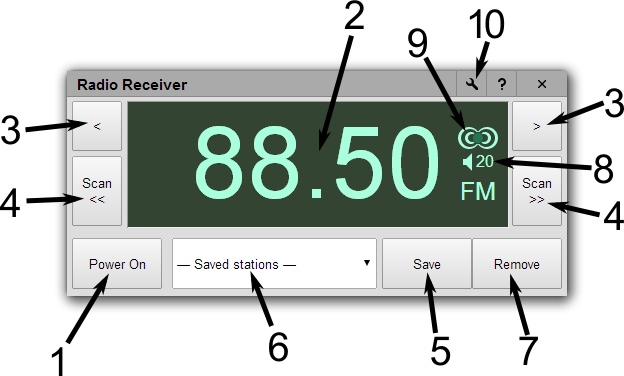
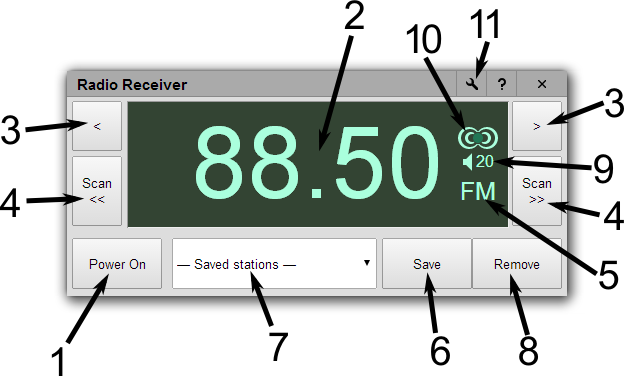
Add the new functionality to the help page.

diff --git a/extension/help.html b/extension/help.html
@@ -31,7 +31,7 @@ body {
 <h2>Start and stop</h2>
 <p>Press the "Power On" button (<b>1</b>) to start playing the radio. You'll see that the label changes to "Power Off"; if you press it again, the radio will stop.</p>
 
-<h2>Changing frequency</h2>
+<h2>Changing frequency and band</h2>
 <p>You can change frequency in several ways:</p>
 <ul>
 <li>Click on the frequency display (<b>2</b>), type your new frequency directly, and press Enter.</li>
@@ -39,23 +39,30 @@ body {
 <li>Use the "Scan &lt;&lt;" and "Scan &gt;&gt;" buttons (<b>4</b>) to search for a station automatically.</li>
 <li>Use the mouse wheel on the frequency display.</li>
 </ul>
+<p>To change the band you are listening to, click on the band indicator (<b>5</b>). Note that, before you can listen to AM radio, you'll need to <a href="#settings">set up an upconverter in the settings window</a>.</p>
 
 <h2>Using presets</h2>
-<p>Click the "Save" button (<b>5</b>) to save the station you are listening to as a preset. Enter a name for the preset and press "Save".</p>
-<p>To switch to a preset, click the preset selection box (<b>6</b>) and choose your new preset. The radio will switch to it immediately.</p>
-<p>To delete a preset, switch to it and press the "Remove" button (<b>7</b>).</p>
-<p>To change a preset's name, switch to it and click the "Save" button (<b>5</b>). Type the new name and press "Save".</p>
+<p>Click the "Save" button (<b>6</b>) to save the station you are listening to as a preset. Enter a name for the preset and press "Save".</p>
+<p>To switch to a preset, click the preset selection box (<b>7</b>) and choose your new preset. The radio will switch to it immediately.</p>
+<p>To delete a preset, switch to it and press the "Remove" button (<b>8</b>).</p>
+<p>To change a preset's name, switch to it and click the "Save" button (<b>6</b>). Type the new name and press "Save".</p>
 
 <h2>Changing volume and stereo</h2>
-<p>To change the volume, click on the "loudspeaker" icon (<b>8</b>) and move the slider left and right to decrease or increase the volume. You can also use your mouse wheel on the icon to change volume directly.</p>
-<p>To disable stereo click on the stereo indicator (<b>9</b>).</p>
+<p>To change the volume, click on the "loudspeaker" icon (<b>9</b>) and move the slider left and right to decrease or increase the volume. You can also use your mouse wheel on the icon to change volume directly.</p>
+<p>To disable stereo click on the stereo indicator (<b>10</b>).</p>
 
+<a name="settings"></a>
 <h2>Settings</h2>
-<p>You can change a lot of settings by clicking on the "wrench" icon (<b>10</b>). There you can change several settings:</p>
+<p>You can change a lot of settings by clicking on the "wrench" icon (<b>11</b>). There you can change several settings:</p>
+
+<p style="text-align:center"><img src="help-settings.png" width="381" height="291" title="Radio Receiver settings window"></p>
+
 <ul>
 <li><b>Region</b>: Radios use different frequencies in different parts of the world. For best results, you should select the part of the world you live in.</li>
 <li><b>Frequency correction</b>: Corrects for clock imprecision in the dongle. Most of the time you can leave it at 0 unless you know you need a different value. If you already know it, enter it here. Otherwise, you can try the "suggest a value" feature.</li>
 <li><b>Tuner gain</b>: Allows you to use automatic gain or set a custom fixed gain. Most people can use automatic gain.</li>
+<li><b>Use upconverter for AM</b>: Enables or disables AM radio via an upconverter.</li>
+<li><b>Upconverter frequency</b>: The frequency the upconverter shifts all signals up by.</li>
 </ul>
 
 <a name="shortcuts"></a>
@@ -69,7 +76,8 @@ body {
 <tr><td><tt>Right Arrow</tt></td><td>Increase Frequency</td></tr>
 <tr><td><tt>&lt;</tt></td><td>Scan for stations by decreasing frequency</td></tr>
 <tr><td><tt>&gt;</tt></td><td>Scan for stations by increasing frequency</td></tr>
-<tr><td><tt>f</ttd></td><td>Edit frequency</td></tr>
+<tr><td><tt>f</tt></td><td>Edit frequency</td></tr>
+<tr><td><tt>b</tt></td><td>Change band</td></tr>
 <tr><td><tt>s</tt></td><td>Toggle stereo off/on</td></tr>
 <tr><td><tt>p</tt></td><td>Go to preset selector</td></tr>
 <tr><td><tt>Shift</tt> + <tt>S</tt></td><td>Save preset</td></tr>
